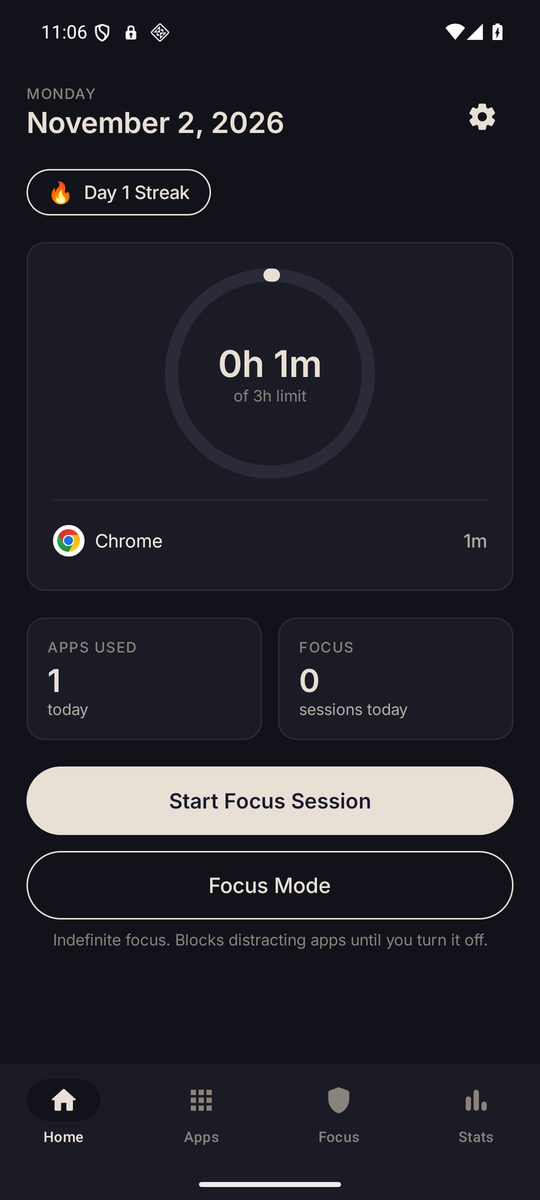
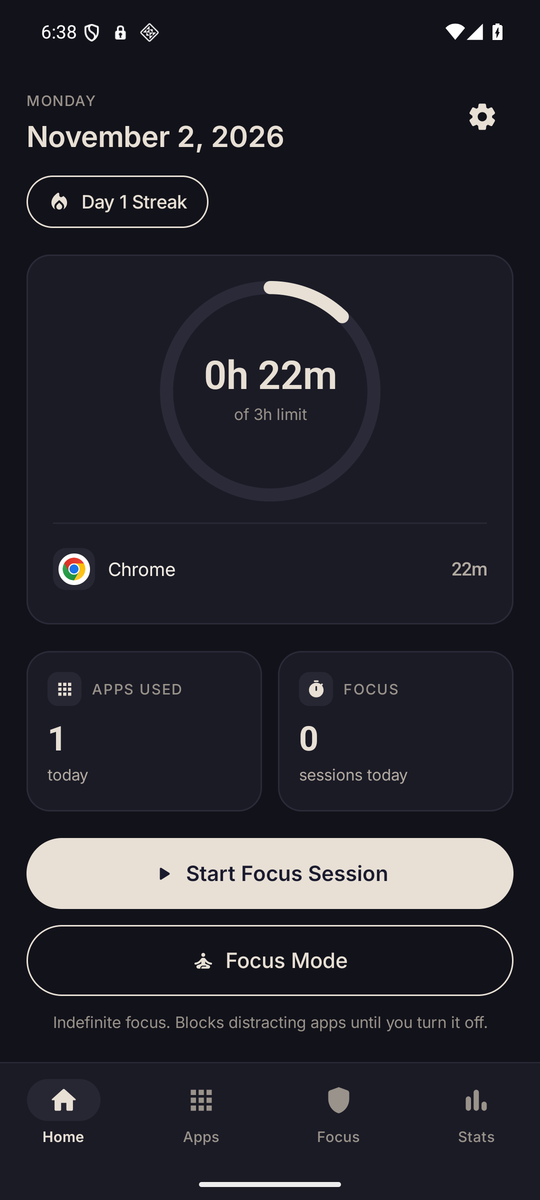
chore(release): bump to 1.3 and refresh screenshots and docs

diff --git a/TASKS.md b/TASKS.md
@@ -1,7 +1,7 @@
 # Sober — Master Task Tracker
 
 > **Maintained by**: Task Tracker Agent  
-> **Last Updated**: 2026-10-29  
+> **Last Updated**: 2026-11-02  
 > **Legend**: `[ ]` Not started · `[/]` In progress · `[x]` Complete · `[!]` Blocked  
 > **Rule**: No task moves to `[x]` until verified by the QA Agent. No phase begins until the prior phase is fully `[x]`.
 
@@ -843,6 +843,40 @@
 > was not rendered, no listing screenshots were taken and no console draft was
 > produced.
 
+### 5.9 Interface Polish & Accessibility (v1.3)
+
+- [x] Replace every emoji glyph with a Material icon, keeping real app icons as
+  drawables — *`AchievementId.badgeIcon()` maps each achievement to a vector;
+  Home and Focus use `LocalFireDepartment`, `PlayArrow`, `SelfImprovement`,
+  `Replay`, `CheckCircle` and `Cancel`. Two grep passes (a literal emoji table
+  and the Unicode emoji ranges) find none left in Kotlin sources.*
+- [x] Give every control a name, a role and its state — *headings on screen
+  titles; merged card descriptions that say durations in words ("22 minutes
+  used of 3 hours daily limit"); chart bars expose "Show this day" and a
+  selected state; decorative icons are `contentDescription = null`.*
+- [x] Make whole rows the switch target, not just the thumb — *the cap picker,
+  Apps limit rows, Settings notification rows and Focus setup rows each expose
+  one `toggleable(value, role = Switch)` stop with a passive `Switch`.*
+- [x] Stop minute counts from shifting and soften the motion — *`TabularNumberStyle`
+  on every ticking value; the usage ring eases over 900ms, the active-session
+  medallion breathes, the completion badge springs in, buttons press to 0.96
+  and tab changes cross-fade in 200ms.*
+- [x] Make the cap picker searchable — *filter by app name or package, a live
+  "N of M apps covered" count, a clear button and empty-match copy.*
+- [x] Build, install and walk the polished UI on the emulator — *signed release
+  installed over v1.2; Home, Apps, app-limit sheet, Focus, Stats including
+  achievements, Settings and the cap picker were screenshotted in dark mode,
+  and `uiautomator dump` confirms the merged descriptions.*
+
+> **5.9 verification (2026-11-02).** Signed release built with the release key
+> and installed with `adb install -r` over v1.2 on the `SoberQA` AVD
+> (`emulator-5554`). `testDebugUnitTest` green: 374 tests, 0 failures (7 new in
+> `TimeFormatTest`, covering spoken durations and singular units). Search
+> narrows the cap picker to one row and that row appears in the hierarchy dump
+> as a single `checkable`/`clickable` node. Not verified: TalkBack itself was
+> not enabled — semantics were inspected from `uiautomator dump` — and this
+> pass was not repeated on the physical phone.
+
 ---
 
 ## Phase 6 — Extended Section Blocking + VPN (Post-Launch)
@@ -1115,6 +1149,11 @@
 | 2026-11-02 | P5.4-chrome | completed | QA Agent | User report: the overall cap covered System UI and Gboard. Root cause was two independent gaps — no block-target classifier in `EvaluateBlockDecisionUseCase`, and `SoberCoreService` excluding only Home and Sober. Added `BlockableAppsRepository` (launcher-only targets; System UI, IMEs, Settings, permission controllers, launcher excluded), a transient-chrome guard that keeps an existing overlay through keyboard/System UI windows, and `<queries>` for the IME interface and Settings actions. Verified on the realme phone (v1.2): `am start -a android.settings.SETTINGS` shows no overlay; Chrome and Photos still blocked by the cap. `test` 367/367 |
 | 2026-11-02 | P5.4a-cap-picker | completed | QA Agent | Settings → Daily screen time → **Apps covered** with a **Choose apps** dialog over every blockable app, copy stating that left-out apps still count as screen time, and a note that Home, Settings, System UI and the keyboard are never blocked. Exemptions persist in DataStore as a string set and are read by the policy engine at decision time. Device-verified: unchecking Chrome made it open under a 397/120-minute cap while Photos stayed blocked; re-checking restored "All of them". Accessibility binding was re-enabled after the reinstall and `Bound services` shows `Sober` |
 | 2026-11-02 | P5.7c | completed | QA Agent | Rebuilt and installed signed v1.2 (versionCode 3) over v1.1 with the same release key; `dumpsys package` reports `versionName=1.2`. Signed APK 3,940,156 bytes, SHA-256 `b5888a7e…b169c`, cert unchanged (`f9fc8e71…c36c64`). The OEM installer (`com.oplus.stdsp`) blocked the first ADB install; the UI install path was used instead and the incident is recorded in GUIDE.md |
+| 2026-11-02 | P5.9-icons | completed | Implementation Agent | Replaced emoji glyphs with vectors: achievements (flame, meditation, phone-off, moon, bolt, medal), Home streak, session actions and completion states. Real app icons stay drawables and now sit in tinted tiles. No emoji remains in Kotlin sources |
+| 2026-11-02 | P5.9-a11y | completed | QA Agent | Accessibility pass: screen headings, merged card descriptions, worded durations (`spokenDuration`, `spokenRemaining`), single-stop switches via whole-row `toggleable`, chart bar labels and selection state, decorative icons silenced. Added `TimeFormatTest` (7 tests), including singular units. Fixed a Material3 API misuse from the pass: `Text` has no `fontFeatureSettings`, so tabular figures moved into `TabularNumberStyle` |
+| 2026-11-02 | P5.9-polish | completed | Implementation Agent | Motion and surface polish: 900ms eased usage ring, breathing session medallion, spring completion badge, 0.96 press scale, 200ms nav cross-fade, tabular digits, 18dp cards, tinted icon tiles and equal-height achievement cards. Verified visually on the emulator; review found the uneven achievement row and fixed it with `IntrinsicSize.Max` |
+| 2026-11-02 | P5.9-cap-search | completed | QA Agent | Cap picker: search by name/package, live covered count, clear action and empty-match copy. `uiautomator dump` shows each app row as one `checkable`/`clickable` node with the app name, so the switch is a single TalkBack stop |
+| 2026-11-02 | P5.9-verify | completed | QA Agent | Signed release rebuilt and installed over v1.2 on `emulator-5554`; walked Home, Apps, limit sheet, Focus, Stats, Settings and cap picker in dark mode. `testDebugUnitTest` 374/374. TalkBack was not enabled — semantics were read from the hierarchy dump; physical-phone recheck pending |
 
 ---
 

diff --git a/GUIDE.md b/GUIDE.md
@@ -767,6 +767,27 @@ The AVD's clock and usage database reset to the host's notion of "today" on a co
 **Learning**: realme/ColorOS routes sideloads through its own "StdSP Core" scanner. It is a normal foreground activity, and `am force-stop`/`am stop-service` do not reliably keep the enforcement service down, so the confirm button can be permanently hidden behind the overlay. Changing verifier settings (`package_verifier_enable`, `verifier_verify_adb_installs`) is one option but alters device security state.  
 **Solution/Pattern**: Disable the blocker briefly with `pm disable-user --user 0 com.sober.app`, complete the install through the UI (`uiautomator dump` locates the Install button; its bounds are in raw pixels), verify with `dumpsys package com.sober.app | grep versionName`, then `pm enable com.sober.app` and relaunch. With v1.2's blockability guard this is no longer necessary, because the OEM installer has no launcher activity — but the sequence is the fallback on older builds. Reinstalling also clears the Accessibility binding (`enabled_accessibility_services` becomes `null`); restore it with `settings put secure enabled_accessibility_services com.sober.app/com.sober.system.services.core.SoberAccessibilityService` and confirm `dumpsys accessibility` lists it under `Bound services`.
 
+### 11.21 Emoji Are Text, Not Icons
+
+**Date**: 2026-11-02  
+**Context**: The achievement badges and streak chip used emoji glyphs (flame, lotus, check marks). They rendered in each OEM's emoji font, at that font's weight and colour, and TalkBack read them as their Unicode name ("fire").  
+**Learning**: An emoji in a `Text` cannot be recoloured, sized independently of the font, or kept visually consistent across devices, and it disappears under some accessibility font settings. Material icons are vectors drawn by Compose, so they take `tint`, match stroke weight, and are silent to TalkBack when `contentDescription = null` because the surrounding row carries the meaning. Real application icons are the exception: those should stay as drawables so users recognise the app.  
+**Solution/Pattern**: Map domain ids to vectors in the UI layer (`AchievementId.badgeIcon()`), never store the glyph on the enum. Grep twice after a sweep: one pass for the literal characters, and one for the Unicode emoji ranges (`[\u{1F300}-\u{1FAFF}\u{2600}-\u{27BF}]`) because many emoji hide in strings that look like plain punctuation.
+
+### 11.22 `Text` Has No `fontFeatureSettings` Parameter
+
+**Date**: 2026-11-02  
+**Context**: Ticking minute counts shifted their own line width, so the usage ring's number jittered each second. Adding `fontFeatureSettings = "tnum"` to `Text` failed to compile with "none of the following candidates is applicable".  
+**Learning**: Compose's `Text` overloads accept colour, size, weight and style, but not `fontFeatureSettings`; that lives on `TextStyle`. The compiler error names the call, not the missing parameter, which makes it look like an overload-resolution problem.  
+**Solution/Pattern**: Keep one `TabularNumberStyle = TextStyle(fontFeatureSettings = "tnum")` in the theme and pass it as `style =`; explicit `fontSize`/`color` arguments still merge over it. Any value that updates on a timer — countdowns, screen-time totals — needs this, or it reflows on every tick.
+
+### 11.23 Equal Cards Need an Intrinsic Row Height
+
+**Date**: 2026-11-02  
+**Context**: In the achievements grid, a two-line description made its card taller than the one beside it; the pair looked ragged even though both used the same 18dp radius and padding.  
+**Learning**: `Row` measures children independently, and `weight(1f)` only equalises *width*. Equal height needs the row to first measure the tallest child's intrinsic height, then stretch every child to it. Without that, `fillMaxHeight()` has no bounded height to fill and does nothing.  
+**Solution/Pattern**: `Row(Modifier.height(IntrinsicSize.Max))` plus `Modifier.weight(1f).fillMaxHeight()` on each card. This is cheap for two-column grids of short content; avoid it for long scrollable children, where intrinsic measurement costs more.
+
 ## 12. Troubleshooting
 
 ### 12.1 Common Build Issues
@@ -777,6 +798,7 @@ The AVD's clock and usage database reset to the host's notion of "today" on a co
 | KSP annotation processing failures | Ensure KSP version matches Kotlin version |
 | Module not found in navigation | Check `settings.gradle.kts` includes the module |
 | `AAPT: resource not found` for fonts | Ensure font files are in `core/ui/src/main/res/font/` |
+| `Could not connect to the Gradle daemon` / `BindException: Cannot assign requested address: getsockopt` on Windows | Host IPv6 loopback is blocked; run Gradle with `JAVA_TOOL_OPTIONS="-Djava.net.preferIPv4Stack=true"` and `GRADLE_OPTS="-Djava.net.preferIPv4Stack=true"` |
 
 ### 12.2 Runtime Issues
 
@@ -799,6 +821,7 @@ The AVD's clock and usage database reset to the host's notion of "today" on a co
 | OnePlus | Deep sleep kills background work | Disable "Adaptive Battery" for Sober |
 | realme / OPPO | `adb install` fails with `INSTALL_FAILED_VERIFICATION_FAILURE`; the StdSP installer is covered by the block overlay | Install through the UI after briefly running `pm disable-user --user 0 com.sober.app`, then `pm enable`. On v1.2+ the installer has no launcher activity, so the cap cannot cover it |
 | realme / OPPO | Accessibility binding resets after reinstall | `settings put secure enabled_accessibility_services com.sober.app/com.sober.system.services.core.SoberAccessibilityService`, then verify via `dumpsys accessibility` |
+| Emulator | `INSTALL_FAILED_UPDATE_INCOMPATIBLE` when installing a debug APK | The AVD already holds the release-signed package. Install a release build signed with the same key (same `versionCode` works with `adb install -r`), or uninstall first — which deletes the app's setup state |
 
 ---
 

diff --git a/README.md b/README.md
@@ -5,10 +5,10 @@
 </p>
 
 <p align="center">
-  <a href="https://github.com/rishabhx29/Sober/releases/latest"><img src="https://img.shields.io/badge/download-APK%20%C2%B7%203.9%20MB-1A1A2E?style=flat-square" alt="Download the APK"></a>
+  <a href="https://github.com/rishabhx29/Sober/releases/latest"><img src="https://img.shields.io/badge/download-APK%20%C2%B7%204.0%20MB-1A1A2E?style=flat-square" alt="Download the APK"></a>
   <img src="https://img.shields.io/badge/platform-Android%208.0%2B-3DDC84?style=flat-square&logo=android&logoColor=white" alt="Android 8.0+">
-  <img src="https://img.shields.io/badge/version-1.2-B3432F?style=flat-square" alt="Version 1.2">
-  <img src="https://img.shields.io/badge/tests-367%20passing-4C7A5C?style=flat-square" alt="367 unit tests passing">
+  <img src="https://img.shields.io/badge/version-1.3-B3432F?style=flat-square" alt="Version 1.3">
+  <img src="https://img.shields.io/badge/tests-374%20passing-4C7A5C?style=flat-square" alt="374 unit tests passing">
   <img src="https://img.shields.io/badge/built%20with-Kotlin%20%2B%20Compose-7F52FF?style=flat-square&logo=kotlin&logoColor=white" alt="Kotlin and Jetpack Compose">
   <a href="LICENSE"><img src="https://img.shields.io/github/license/rishabhx29/Sober?style=flat-square" alt="MIT license"></a>
 </p>
